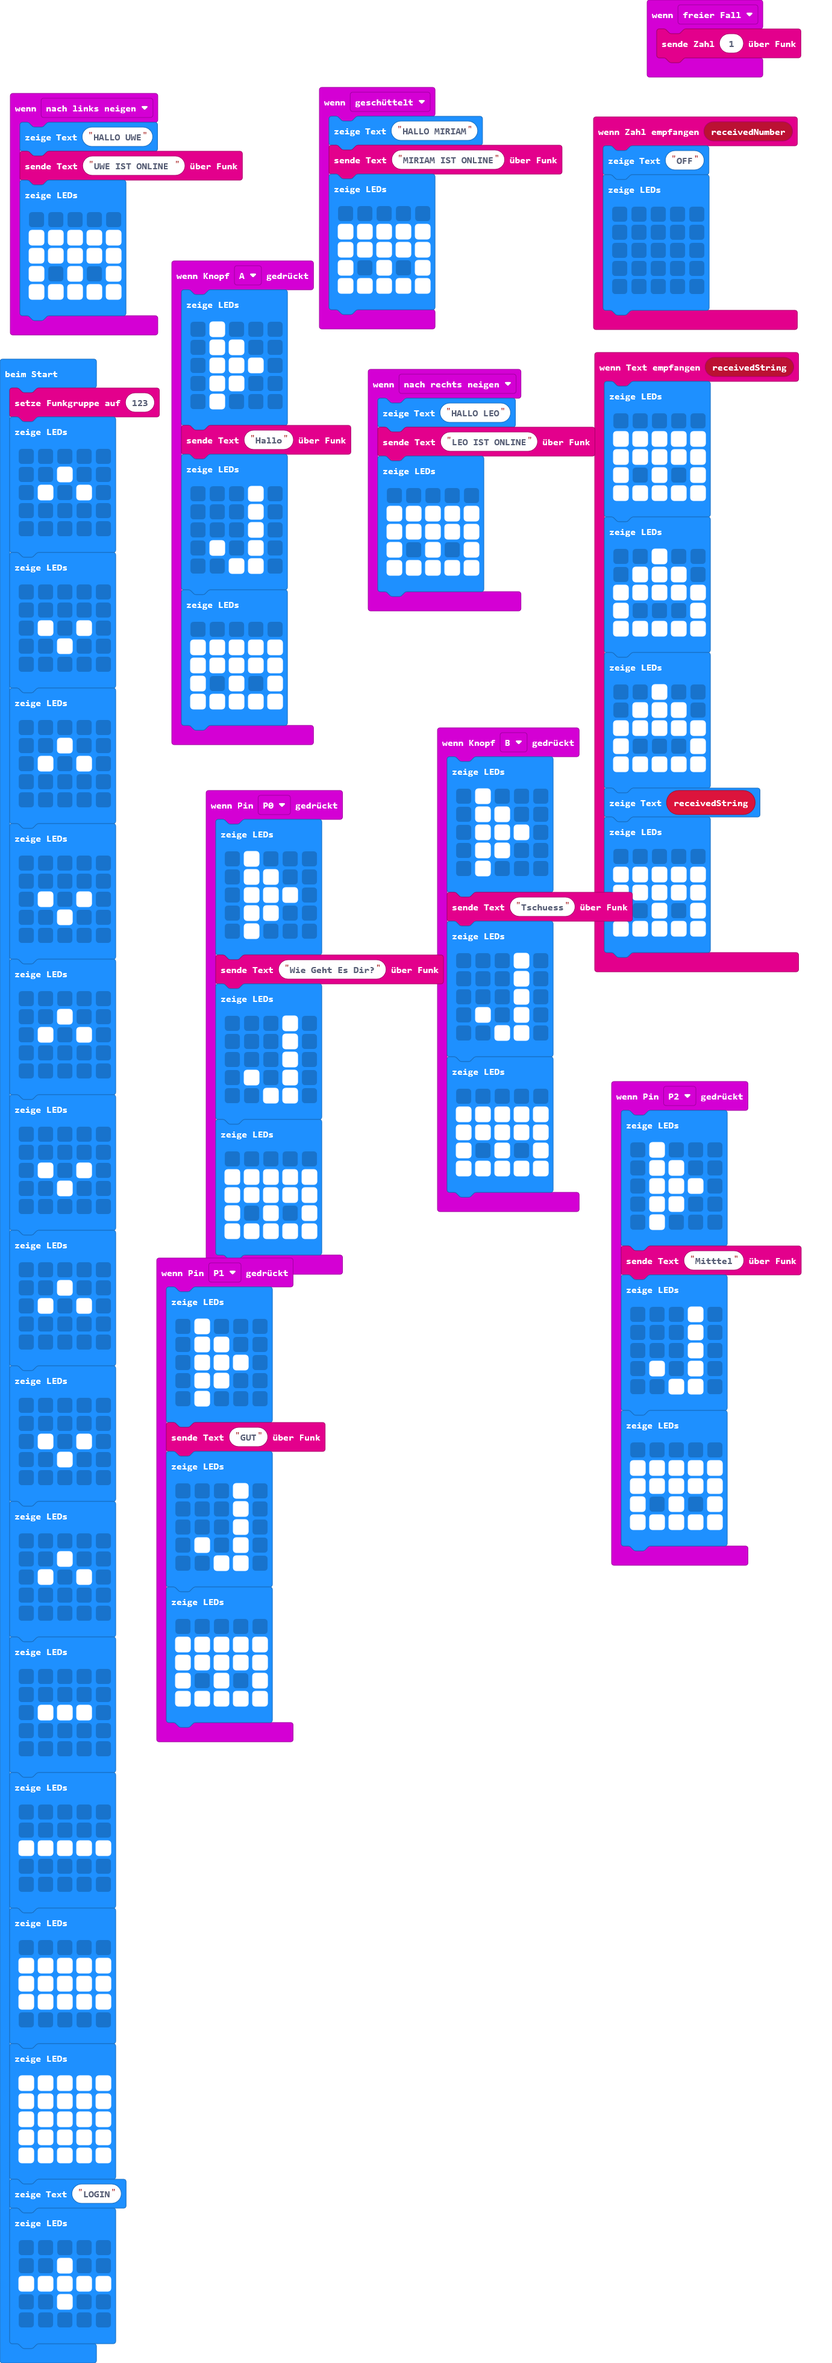
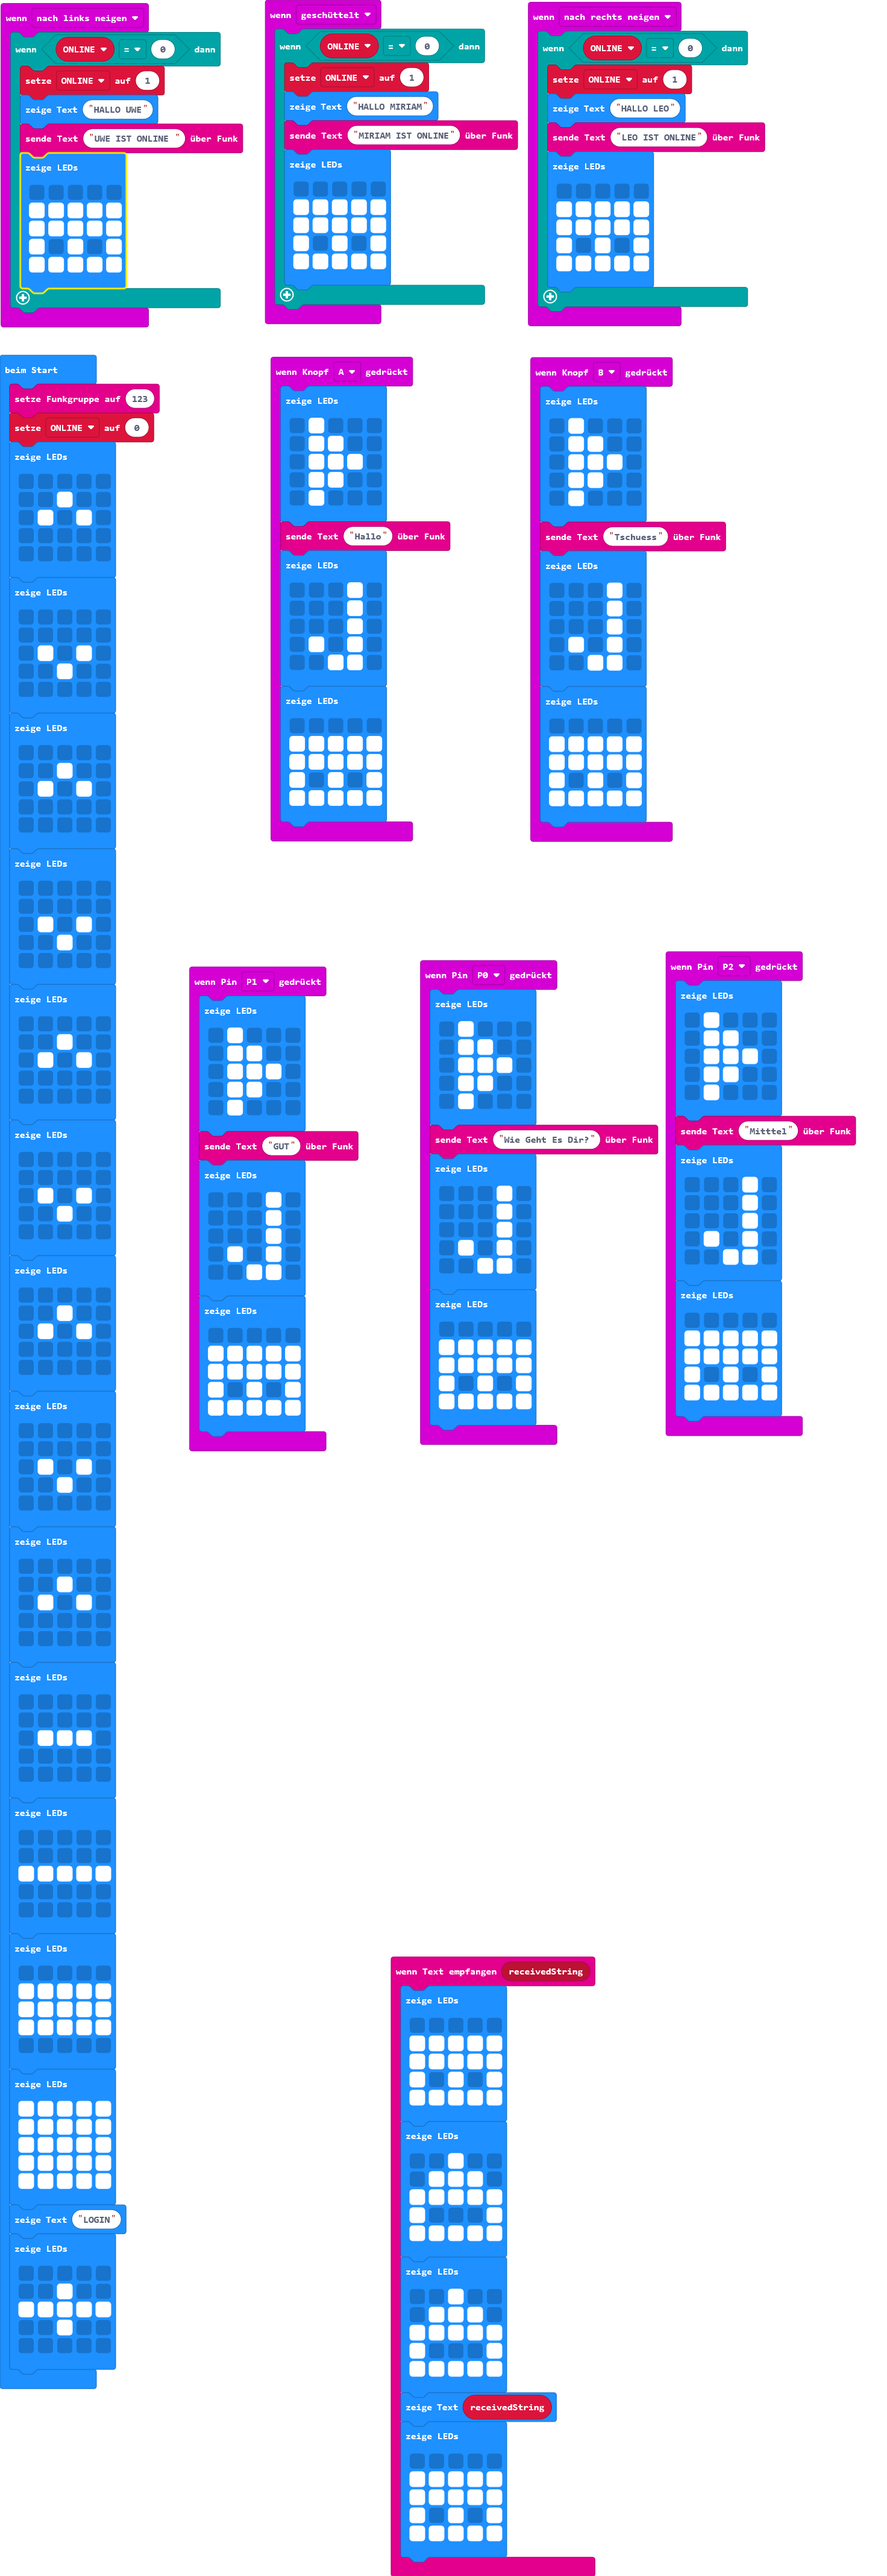
Nur einmal Login

diff --git a/main.ts b/main.ts
@@ -23,28 +23,18 @@ input.onPinPressed(TouchPin.P0, function () {
         `)
 })
 input.onGesture(Gesture.TiltRight, function () {
-    basic.showString("HALLO LEO")
-    radio.sendString("LEO IST ONLINE")
-    basic.showLeds(`
-        . . . . .
-        # # # # #
-        # # # # #
-        # . # . #
-        # # # # #
-        `)
-})
-radio.onReceivedNumber(function (receivedNumber) {
-    basic.showString("OFF")
-    basic.showLeds(`
-        . . . . .
-        . . . . .
-        . . . . .
-        . . . . .
-        . . . . .
-        `)
-})
-input.onGesture(Gesture.FreeFall, function () {
-    radio.sendNumber(1)
+    if (ONLINE == 0) {
+        ONLINE = 1
+        basic.showString("HALLO LEO")
+        radio.sendString("LEO IST ONLINE")
+        basic.showLeds(`
+            . . . . .
+            # # # # #
+            # # # # #
+            # . # . #
+            # # # # #
+            `)
+    }
 })
 input.onButtonPressed(Button.A, function () {
     basic.showLeds(`
@@ -71,15 +61,18 @@ input.onButtonPressed(Button.A, function () {
         `)
 })
 input.onGesture(Gesture.TiltLeft, function () {
-    basic.showString("HALLO UWE")
-    radio.sendString("UWE IST ONLINE ")
-    basic.showLeds(`
-        . . . . .
-        # # # # #
-        # # # # #
-        # . # . #
-        # # # # #
-        `)
+    if (ONLINE == 0) {
+        ONLINE = 1
+        basic.showString("HALLO UWE")
+        radio.sendString("UWE IST ONLINE ")
+        basic.showLeds(`
+            . . . . .
+            # # # # #
+            # # # # #
+            # . # . #
+            # # # # #
+            `)
+    }
 })
 input.onPinPressed(TouchPin.P2, function () {
     basic.showLeds(`
@@ -106,15 +99,18 @@ input.onPinPressed(TouchPin.P2, function () {
         `)
 })
 input.onGesture(Gesture.Shake, function () {
-    basic.showString("HALLO MIRIAM")
-    radio.sendString("MIRIAM IST ONLINE")
-    basic.showLeds(`
-        . . . . .
-        # # # # #
-        # # # # #
-        # . # . #
-        # # # # #
-        `)
+    if (ONLINE == 0) {
+        ONLINE = 1
+        basic.showString("HALLO MIRIAM")
+        radio.sendString("MIRIAM IST ONLINE")
+        basic.showLeds(`
+            . . . . .
+            # # # # #
+            # # # # #
+            # . # . #
+            # # # # #
+            `)
+    }
 })
 radio.onReceivedString(function (receivedString) {
     basic.showLeds(`
@@ -195,7 +191,9 @@ input.onPinPressed(TouchPin.P1, function () {
         # # # # #
         `)
 })
+let ONLINE = 0
 radio.setGroup(123)
+ONLINE = 0
 basic.showLeds(`
     . . . . .
     . . # . .
